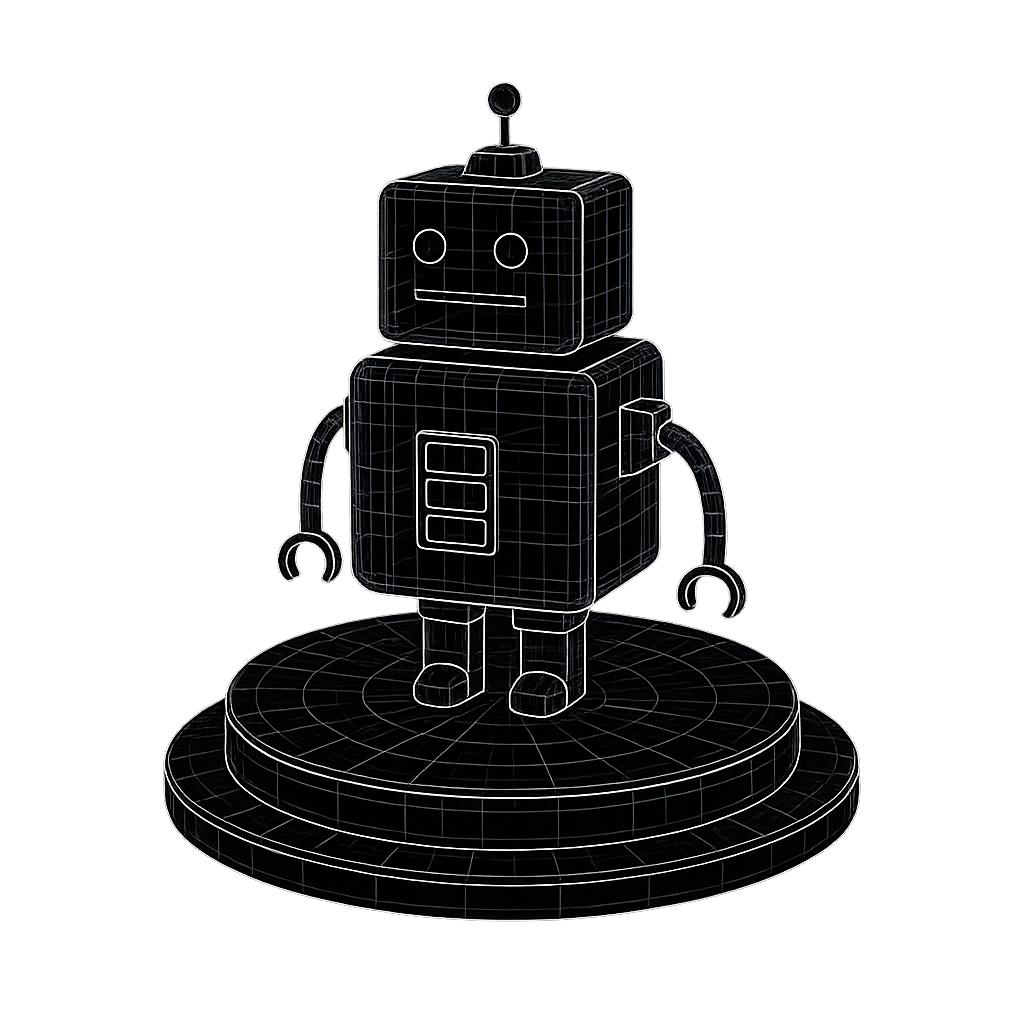
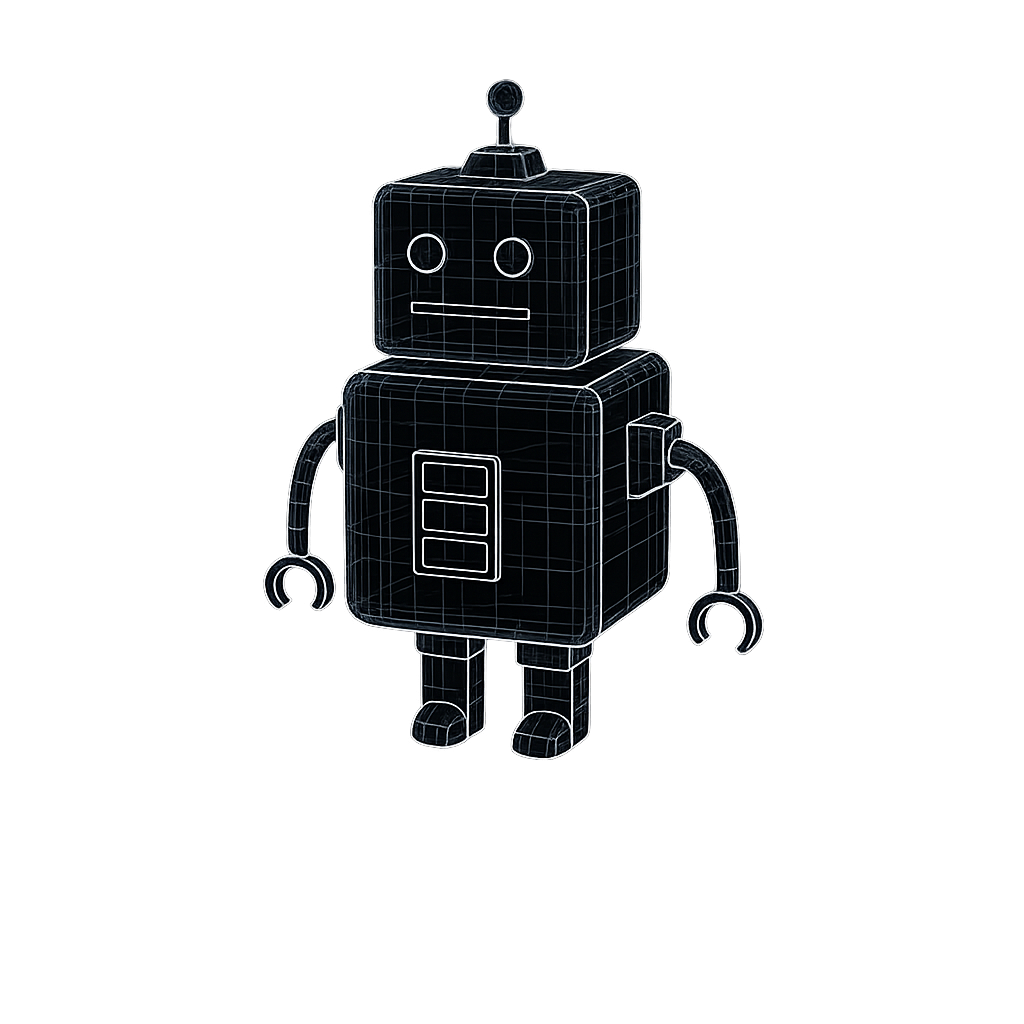
feat: add new background for domain page and fix domain anim

Changed region(s): [[0.1562, 0.0625, 0.8438, 0.9062]]

diff --git a/components/Domains.tsx b/components/Domains.tsx
@@ -1,12 +1,98 @@
 'use client';
 
-import React, { useEffect, useRef } from 'react';
+import React, { useEffect, useRef, useState } from 'react';
 import gsap from 'gsap';
 import { ScrollTrigger } from 'gsap/ScrollTrigger';
 
 if (typeof window !== 'undefined') {
   gsap.registerPlugin(ScrollTrigger);
 }
+
+// --- MORPHIC DOT GRID BACKGROUND ---
+const ICONS = [
+  // Chunky Plus
+  <svg key="plus" width="20" height="20" viewBox="0 0 24 24" fill="none" stroke="currentColor" strokeWidth="3" strokeLinecap="round" strokeLinejoin="round"><line x1="12" y1="5" x2="12" y2="19"></line><line x1="5" y1="12" x2="19" y2="12"></line></svg>,
+  // Chunky Cross
+  <svg key="cross" width="20" height="20" viewBox="0 0 24 24" fill="none" stroke="currentColor" strokeWidth="3" strokeLinecap="round" strokeLinejoin="round"><line x1="18" y1="6" x2="6" y2="18"></line><line x1="6" y1="6" x2="18" y2="18"></line></svg>,
+  // Cartoony Microchip Box
+  <svg key="chip" width="18" height="18" viewBox="0 0 24 24" fill="none" stroke="currentColor" strokeWidth="3" strokeLinecap="round" strokeLinejoin="round"><rect x="4" y="4" width="16" height="16" rx="4" ry="4"></rect></svg>,
+  // Chunky Bracket
+  <svg key="bracket" width="20" height="20" viewBox="0 0 24 24" fill="none" stroke="currentColor" strokeWidth="3" strokeLinecap="round" strokeLinejoin="round"><polyline points="16 18 22 12 16 6"></polyline><polyline points="8 6 2 12 8 18"></polyline></svg>,
+  // Node Circle
+  <svg key="node" width="16" height="16" viewBox="0 0 24 24" fill="none" stroke="currentColor" strokeWidth="4" strokeLinecap="round" strokeLinejoin="round"><circle cx="12" cy="12" r="8"></circle></svg>
+];
+
+function MorphicBackground() {
+  const [nodes, setNodes] = useState<Array<{ id: number; x: number; y: number; icon: React.ReactNode; delay: number; duration: number }>>([]);
+
+  useEffect(() => {
+    // Generate random nodes only on the client to avoid hydration mismatches
+    const generatedNodes = Array.from({ length: 35 }).map((_, i) => {
+      // Snap to a 40px grid (matching the background-size below)
+      const x = Math.floor(Math.random() * 100) * 40;
+      const y = Math.floor(Math.random() * 100) * 40;
+      return {
+        id: i,
+        x,
+        y,
+        icon: ICONS[Math.floor(Math.random() * ICONS.length)],
+        delay: Math.random() * 5,
+        duration: 3 + Math.random() * 4, // 3 to 7 seconds per cycle
+      };
+    });
+    setNodes(generatedNodes);
+  }, []);
+
+  return (
+    <div className="absolute inset-0 z-0 overflow-hidden pointer-events-none">
+      {/* 1. Static Dot Grid Base */}
+      <div 
+        className="absolute inset-0 opacity-[0.15]"
+        style={{
+          backgroundImage: 'radial-gradient(rgba(255, 255, 255, 1) 1.5px, transparent 1.5px)',
+          backgroundSize: '40px 40px',
+          backgroundPosition: '0 0'
+        }}
+      />
+      
+      {/* 2. Dynamic Morphing Symbols */}
+      <div className="absolute inset-0 text-[rgba(255,255,255,0.25)]">
+        {nodes.map((node) => (
+          <div
+            key={node.id}
+            className="absolute flex items-center justify-center will-change-transform"
+            style={{
+              left: `${node.x}px`,
+              top: `${node.y}px`,
+              width: '40px',
+              height: '40px',
+              transform: 'translate(-50%, -50%)', // Centered exactly on the dot intersection
+              animation: `morphicPulse ${node.duration}s ease-in-out ${node.delay}s infinite`,
+              opacity: 0,
+            }}
+          >
+            {node.icon}
+          </div>
+        ))}
+      </div>
+
+      {/* 3. Subtle Vignette so the edges fade to black naturally without hard-blocking transparency */}
+      <div className="absolute inset-0 bg-[radial-gradient(circle_at_center,transparent_0%,rgba(5,5,5,0.8)_100%)]" />
+
+      <style dangerouslySetInnerHTML={{__html: `
+        @keyframes morphicPulse {
+          0% { opacity: 0; transform: translate(-50%, -50%) scale(0.2); }
+          20% { opacity: 1; transform: translate(-50%, -50%) scale(1.1); }
+          30% { opacity: 1; transform: translate(-50%, -50%) scale(1); }
+          70% { opacity: 1; transform: translate(-50%, -50%) scale(1); }
+          90% { opacity: 0; transform: translate(-50%, -50%) scale(0.2); }
+          100% { opacity: 0; transform: translate(-50%, -50%) scale(0.2); }
+        }
+      `}} />
+    </div>
+  );
+}
+// ---------------------------------------------
 
 const DOMAINS = [
   {
@@ -325,7 +411,8 @@ export default function Domains() {
           ease: 'power2.inOut', force3D: true,
         });
 
-        const peakScale = 2;
+        // 1. Reduced peakScale so it doesn't pop forward too aggressively before leaving
+        const peakScale = 1.2; 
         const peakX = lineXValues.map(v => `${v * (peakScale / lineScale)}vw`);
 
         tl.to(cardsRef.current, {
@@ -341,9 +428,13 @@ export default function Domains() {
           '<-0.7',
         );
 
+        // 2. Reduced final scale and calculated dynamic X positions to prevent overlap!
         tl.to(cardsRef.current, {
-          x: (i) => (i < 3 ? '-160vw' : '160vw'),
-          scale: 8,
+          x: (i) => {
+            if (i < 3) return `${-120 - ((2 - i) * 60)}vw`; 
+            else return `${120 + ((i - 3) * 60)}vw`;
+          },
+          scale: 3, 
           duration: 1.8,
           ease: 'power2.inOut',
           force3D: true,
@@ -356,17 +447,14 @@ export default function Domains() {
 
   return (
     <>
-      {/* MOBILE LAYOUT: Standard vertical flow (hidden on md and above) */}
+      {/* MOBILE LAYOUT */}
       <section
         id="domains-mobile"
-        className="relative w-full min-h-screen py-24 px-6 flex flex-col md:hidden bg-[#050505]"
-        style={{
-          backgroundImage: 'url(/hero-bg.png)',
-          backgroundSize: 'cover',
-          backgroundPosition: 'center',
-          backgroundRepeat: 'no-repeat',
-        }}
+        className="relative w-full min-h-screen py-24 px-6 flex flex-col md:hidden bg-transparent" 
       >
+        {/* ADDED: Morphic Background Component */}
+        <MorphicBackground />
+
         <div className="absolute top-6 left-6 z-20 pointer-events-none">
           <span style={{
             fontFamily: 'monospace', fontSize: '11px', letterSpacing: '0.2em',
@@ -406,19 +494,15 @@ export default function Domains() {
         </div>
       </section>
 
-
-      {/* DESKTOP LAYOUT: Original GSAP timeline (hidden on mobile) */}
+      {/* DESKTOP LAYOUT */}
       <section
         id="domains"
         ref={sectionRef}
-        className="relative w-full h-screen overflow-hidden hidden md:flex items-center justify-center bg-[#050505]"
-        style={{
-          backgroundImage: 'url(/hero-bg.png)',
-          backgroundSize: 'cover',
-          backgroundPosition: 'center',
-          backgroundRepeat: 'no-repeat',
-        }}
+        className="relative w-full h-screen overflow-hidden hidden md:flex items-center justify-center bg-transparent"
       >
+        {/* ADDED: Morphic Background Component */}
+        <MorphicBackground />
+
         <div ref={sectionLabelRef} className="absolute z-20 pointer-events-none" style={{ top: '10%', left: '6%' }}>
           <span style={{
             fontFamily: 'monospace', fontSize: '11px', letterSpacing: '0.2em',

diff --git a/app/page.tsx b/app/page.tsx
@@ -24,7 +24,7 @@ export default function Page() {
   // --- THE ORCHESTRATOR ANIMATIONS ---
   
   // Background fades from 87% opacity to 0% as Domains scrolls up
-  const bgOpacity = useTransform(domainsEnterProgress, [0, 1], [0.87, 0]);
+const bgOpacity = useTransform(domainsEnterProgress, [0, 0.94, 1], [0.87, 0.87, 0]);
   
   // Gear translates to the left (-100%) to roll off-screen as Domains comes up
   const gearX = useTransform(domainsEnterProgress, [0, 1], ["0%", "-100%"]);